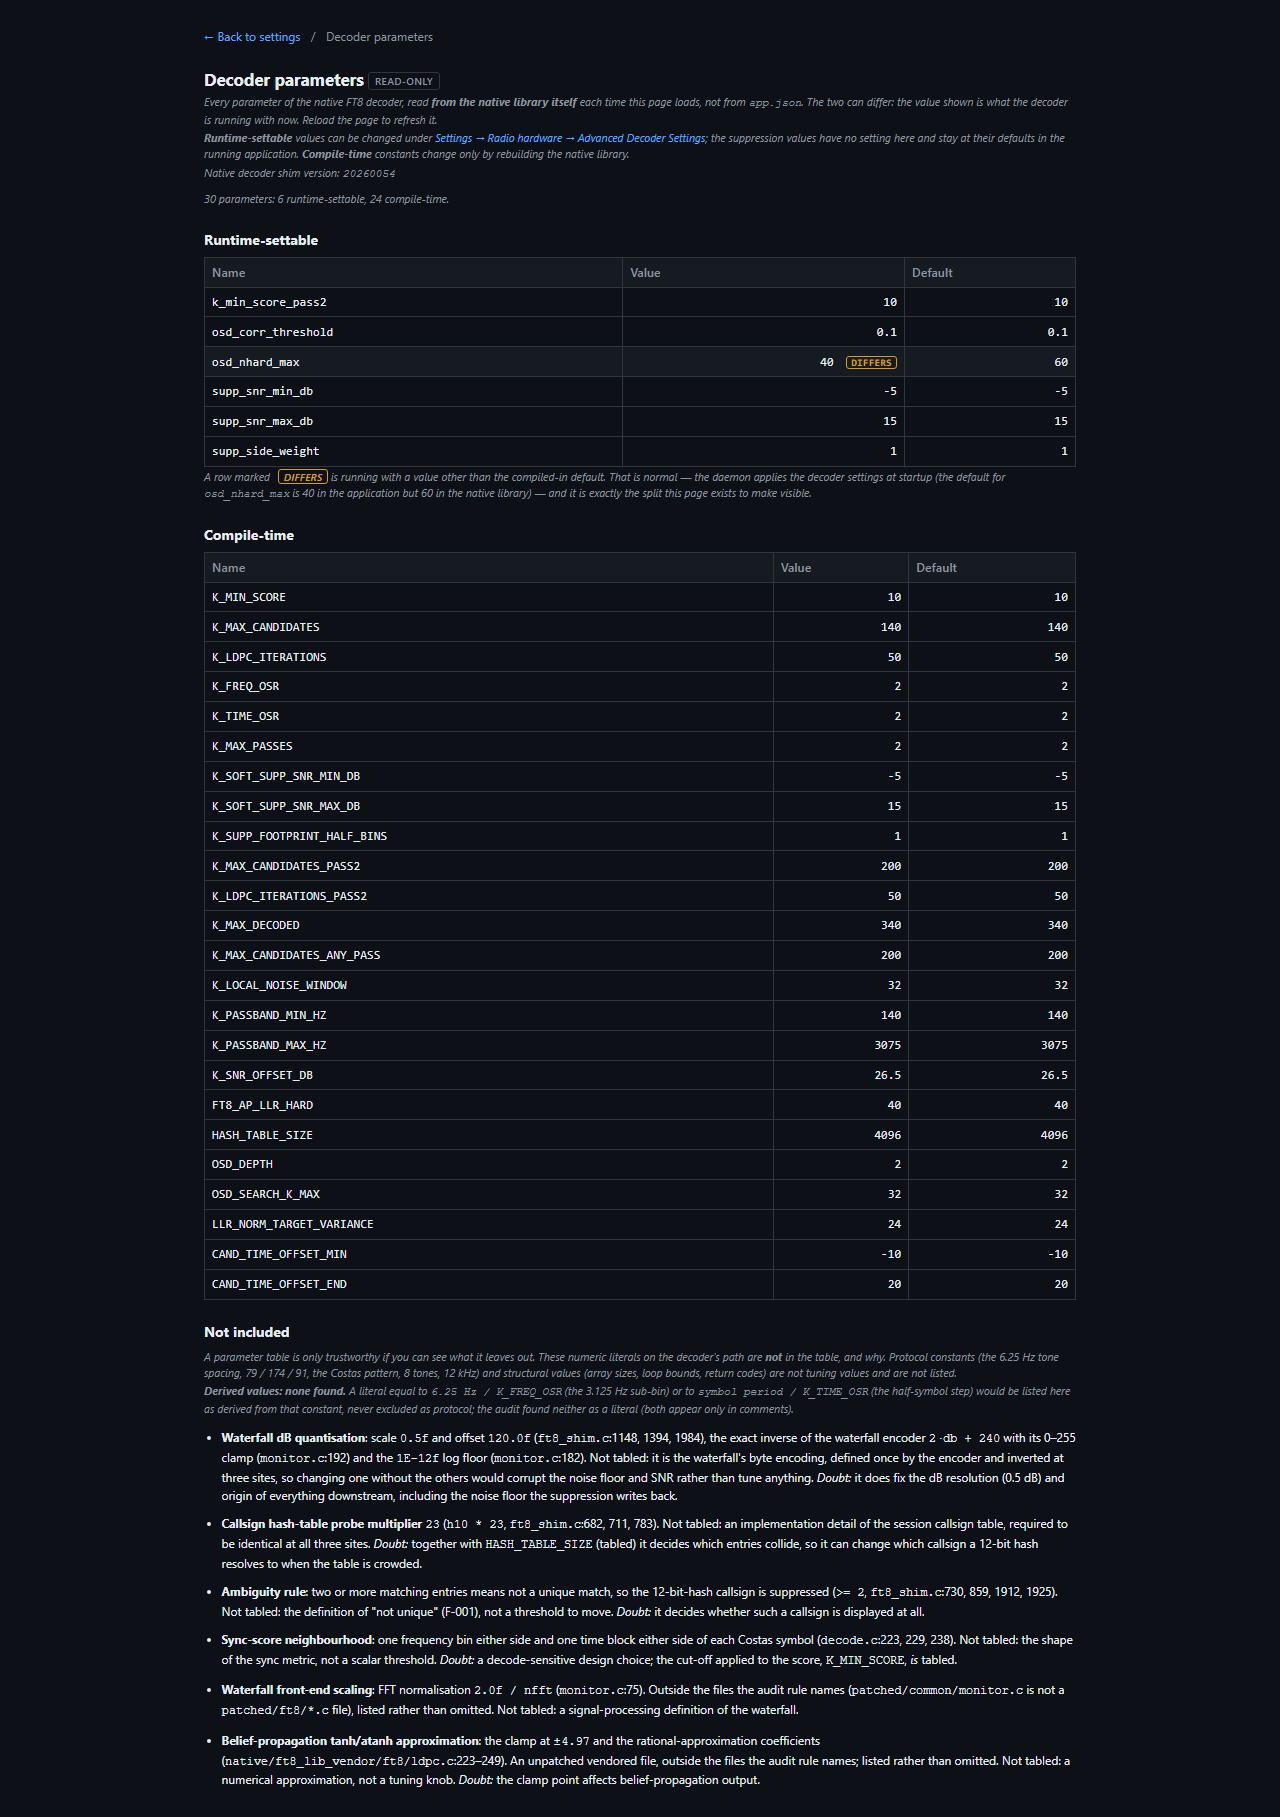
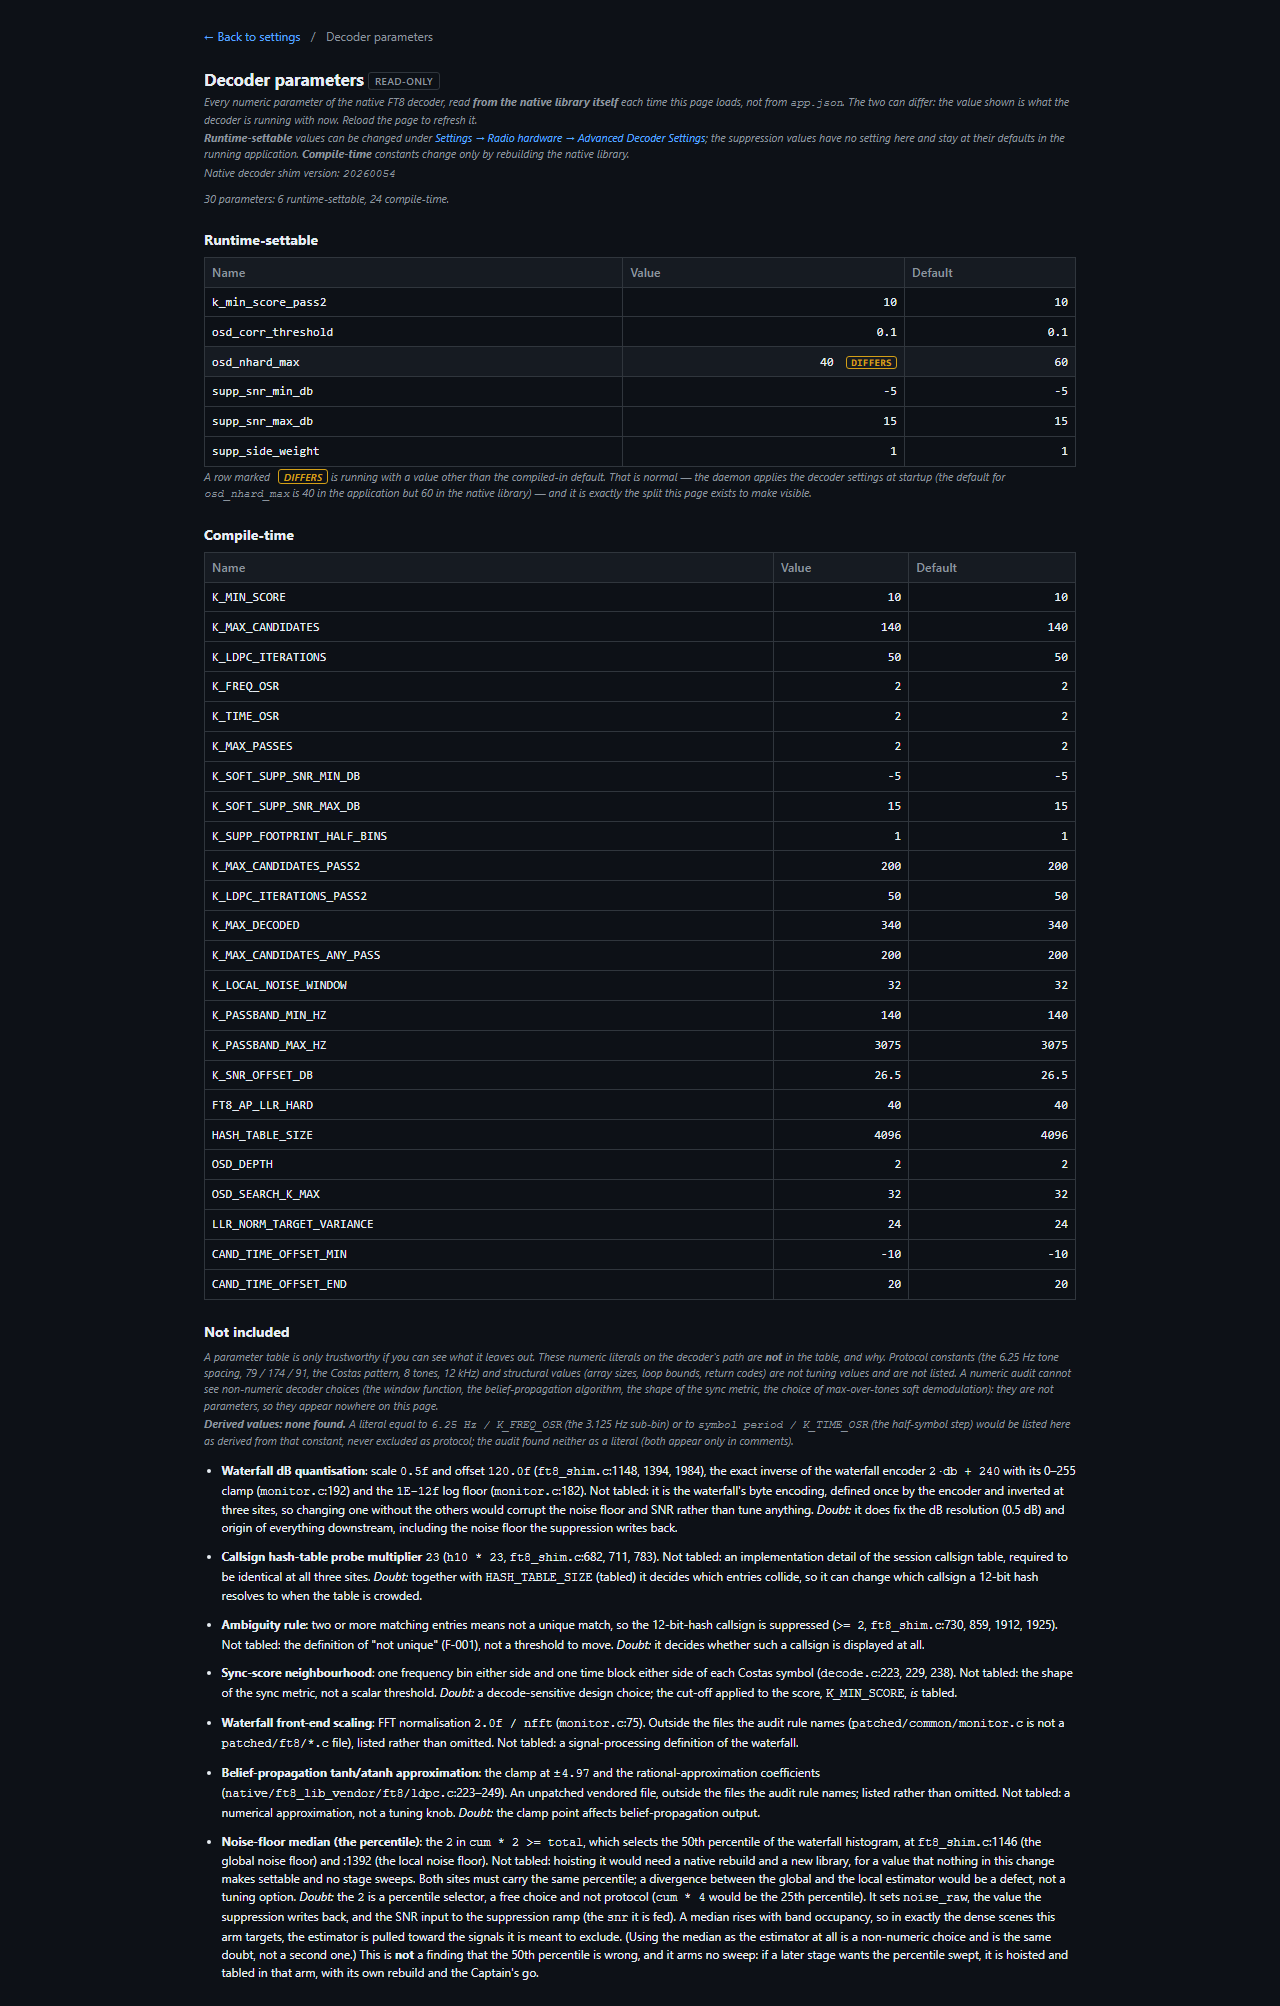
docs(decoder-param-readout): disclose the noise-floor median on the page (D12 ruling, no rebuild)
Architect ruling DENSITY-REMEDY spec §13 (arch/density cfef8246), from QA's S1-f(ii) review: the `2` in
`cum * 2 >= total` (ft8_shim.c:1146 global, :1392 local) is a percentile selector, i.e. a TUNING literal,
so it is disclosed, not tabled, and NOT rebuilt (a hoist would void the DLL pin and S1-a's evidence).

- web/decoder-params.html: ONE noise-floor-median entry covering both sites; Doubt = the 50th percentile
  is a free choice, sets noise_raw and the ramp's SNR input, and a median rises with band occupancy so in
  the dense scenes this arm targets the estimator is pulled toward the signals it should exclude
  (median-as-estimator is inside this entry, not a second one); explicitly NOT a finding that 50% is wrong
  and it arms no sweep. "every parameter" -> "every numeric parameter", with non-numeric choices named as
  not shown.
- DecoderParamsPageTests: ledger 6 -> 7; the entry's content is pinned; the two sites in the shim must
  carry the SAME percentile (a divergence is a defect); the "numeric" wording is pinned.
- after-decoder-params.png retaken (Playwright 17/17 against a running daemon).

HTML, tests and a screenshot only: nothing under native/ or src/, DLL blob unchanged (38a21f84).

diff --git a/web/decoder-params.html b/web/decoder-params.html
@@ -30,7 +30,7 @@
     <h1>Decoder parameters <span class="param-readonly-tag">read-only</span></h1>
 
     <p class="field-hint">
-      Every parameter of the native FT8 decoder, read <strong>from the native library itself</strong>
+      Every numeric parameter of the native FT8 decoder, read <strong>from the native library itself</strong>
       each time this page loads, not from <code>app.json</code>. The two can differ: the value shown is
       what the decoder is running with <em>now</em>. Reload the page to refresh it.
     </p>
@@ -92,6 +92,9 @@
         literals on the decoder's path are <strong>not</strong> in the table, and why. Protocol constants
         (the 6.25 Hz tone spacing, 79 / 174 / 91, the Costas pattern, 8 tones, 12 kHz) and structural
         values (array sizes, loop bounds, return codes) are not tuning values and are not listed.
+        A numeric audit cannot see non-numeric decoder choices (the window function, the belief-propagation
+        algorithm, the shape of the sync metric, the choice of max-over-tones soft demodulation): they are
+        not parameters, so they appear nowhere on this page.
       </p>
 
       <p id="derived-none" class="field-hint" data-status="derived" data-literal="derived-none">
@@ -143,6 +146,22 @@
           An unpatched vendored file, outside the files the audit rule names; listed rather than omitted.
           Not tabled: a numerical approximation, not a tuning knob. <em>Doubt:</em> the clamp point
           affects belief-propagation output.
+        </li>
+        <li data-status="not-included" data-literal="noise-floor-median">
+          <strong>Noise-floor median (the percentile)</strong>: the <code>2</code> in
+          <code>cum * 2 &gt;= total</code>, which selects the 50th percentile of the waterfall histogram, at
+          <code>ft8_shim.c</code>:1146 (the global noise floor) and :1392 (the local noise floor). Not tabled:
+          hoisting it would need a native rebuild and a new library, for a value that nothing in this change
+          makes settable and no stage sweeps. Both sites must carry the same percentile; a divergence between
+          the global and the local estimator would be a defect, not a tuning option.
+          <em>Doubt:</em> the <code>2</code> is a percentile selector, a free choice and not protocol
+          (<code>cum * 4</code> would be the 25th percentile). It sets <code>noise_raw</code>, the value the
+          suppression writes back, and the SNR input to the suppression ramp (the <code>snr</code> it is fed).
+          A median rises with band occupancy, so in exactly the dense scenes this arm targets, the estimator is
+          pulled toward the signals it is meant to exclude. (Using the median as the estimator at all is a
+          non-numeric choice and is the same doubt, not a second one.) This is <strong>not</strong> a finding
+          that the 50th percentile is wrong, and it arms no sweep: if a later stage wants the percentile swept,
+          it is hoisted and tabled in that arm, with its own rebuild and the Captain's go.
         </li>
       </ul>
     </section>

diff --git a/tests/OpenWSFZ.Web.Tests/DecoderParamsPageTests.cs b/tests/OpenWSFZ.Web.Tests/DecoderParamsPageTests.cs
@@ -53,6 +53,9 @@ public sealed class DecoderParamsPageTests : IClassFixture<WebTestFactory>
         "sync-neighbourhood",
         "waterfall-frontend",
         "bp-tanh-approximation",
+        // Added after QA's S1-f(ii) review; ruled TUNING by the Architect (DENSITY-REMEDY spec §13):
+        // one entry covering BOTH sites of the noise-floor median, disclosed, not tabled, no rebuild.
+        "noise-floor-median",
     ];
 
     // ── the page is served and carries no control ────────────────────────────
@@ -135,6 +138,39 @@ public sealed class DecoderParamsPageTests : IClassFixture<WebTestFactory>
         }
     }
 
+    [Fact(DisplayName = "FR-070: there is exactly ONE noise-floor-median entry, naming both sites and stating the percentile, noise_raw, occupancy and SNR doubt without claiming a defect")]
+    public async Task NoiseFloorMedianEntry_CoversBothSites_AndStatesTheDoubt()
+    {
+        string html = await GetText("/decoder-params.html");
+
+        Regex.Matches(html, @"data-literal=""noise-floor-median""").Should().HaveCount(1,
+            "one id for both sites, so a test can hold them together (Architect §13.2)");
+        var li = Regex.Match(html, @"<li\s+data-status=""not-included""\s+data-literal=""noise-floor-median"">(?<body>.*?)</li>",
+                             RegexOptions.Singleline);
+        li.Success.Should().BeTrue("the entry is a not-included <li>");
+        // tags stripped and whitespace collapsed: the source wraps sentences across lines
+        string text = Regex.Replace(Regex.Replace(li.Groups["body"].Value, "<[^>]+>", " "), @"\s+", " ");
+
+        text.Should().Contain("ft8_shim.c").And.Contain(":1146").And.Contain(":1392",
+            "it must name both the global and the local site");
+        foreach (string word in new[] { "percentile", "noise_raw", "occupancy", "SNR", "Doubt", "Not tabled" })
+            text.Should().ContainEquivalentOf(word, $"the entry must speak to '{word}'");
+        text.Should().Contain("same percentile", "the two sites must not diverge");
+        text.Should().ContainEquivalentOf("not a finding", "the disclosure is not a claim that 50% is wrong");
+        text.Should().Contain("arms no sweep");
+        html.Should().Contain("data-literal=\"derived-none\"", "the derived-values statement is kept");
+    }
+
+    [Fact(DisplayName = "FR-070: the page says it lists every NUMERIC parameter, and says non-numeric choices are not shown")]
+    public async Task Page_ClaimsNumericParametersOnly()
+    {
+        string html = await GetText("/decoder-params.html");
+
+        html.Should().Contain("Every numeric parameter", "a numeric audit cannot see non-numeric decoder choices");
+        html.Should().NotContain("Every parameter of", "the unqualified claim would overstate what the audit can see");
+        html.Should().Contain("non-numeric decoder choices");
+    }
+
     /// <summary>Reads a repository source file (found by walking up to OpenWSFZ.slnx), or fails loudly.</summary>
     private static string RepoText(string relative)
     {
@@ -167,6 +203,14 @@ public sealed class DecoderParamsPageTests : IClassFixture<WebTestFactory>
         decode.Should().Contain("p8[sm - 1]").And.Contain("p8[sm + 1]", "sync-neighbourhood");
         monitor.Should().MatchRegex(@"2\.0f\s*/\s*me->nfft", "waterfall-frontend");
         ldpc.Should().Contain("4.97f", "bp-tanh-approximation");
+
+        // noise-floor-median: exactly two sites (global and local), and they MUST carry the same
+        // percentile. A divergence is a defect, not a tuning option (Architect §13.2), so this holds
+        // the two together: change one and not the other and this fails.
+        var median = Regex.Matches(shim, @"if\s*\(\s*cum\s*\*\s*(?<p>\d+)\s*>=\s*\(uint32_t\)total\s*\)");
+        median.Should().HaveCount(2, "compute_noise_floor (global) and compute_local_noise_floor_db (local)");
+        median.Select(m => m.Groups["p"].Value).Distinct().Should().ContainSingle(
+            "the global and local noise-floor estimators must select the same percentile");
     }
 
     // ── settings.html: one link; the editable block is unchanged ─────────────
